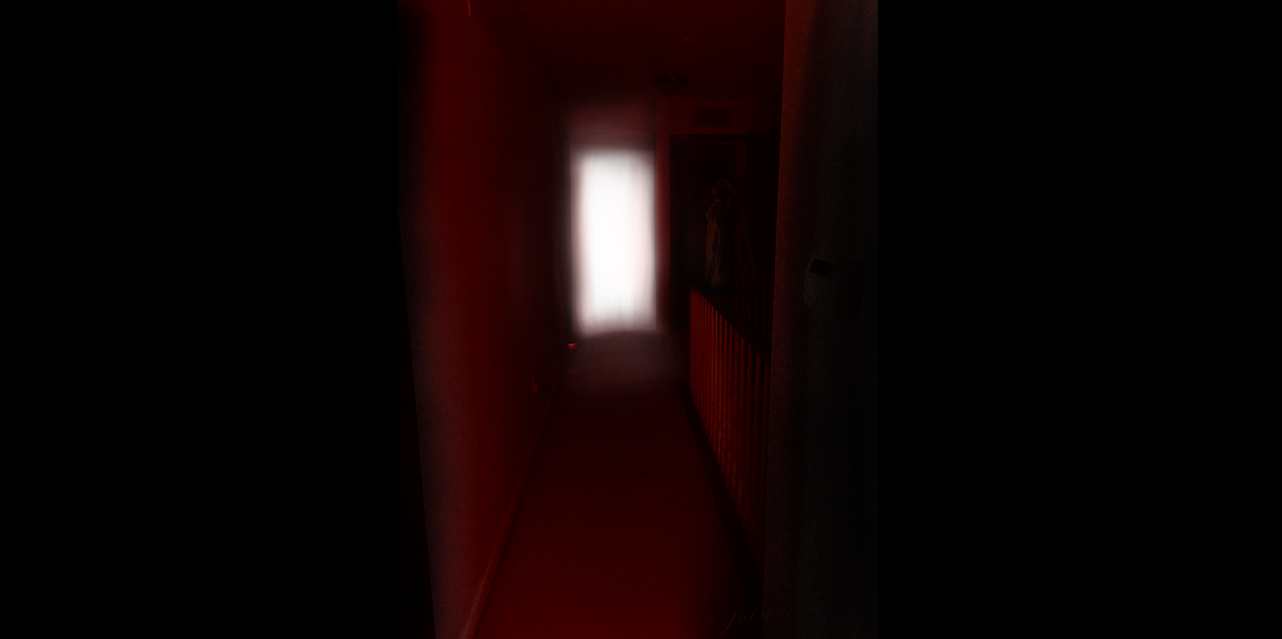
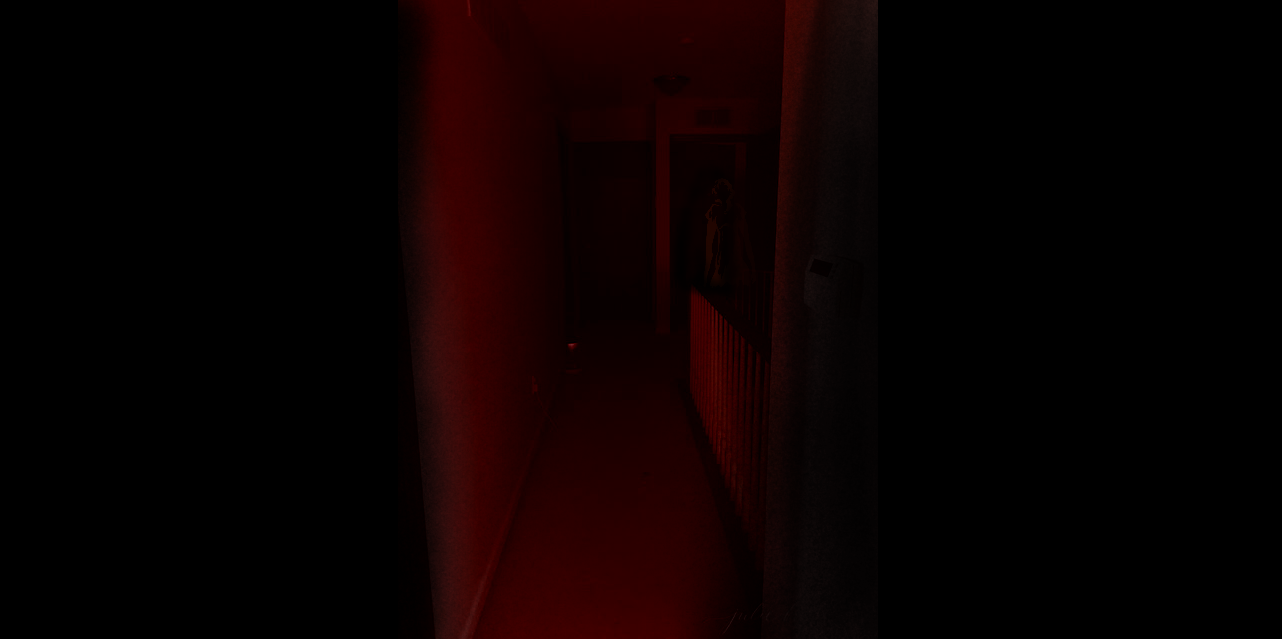
One more time

Changed region(s): [[0.4368, 0.1487, 0.5304, 0.5947]]

diff --git a/car.css b/car.css
@@ -562,6 +562,8 @@ body.single-toggle .drop:nth-child(10) {
     background: url("images/graveyard.png");
     background-repeat: no-repeat;
     background-size: cover;
+    box-shadow: inset 0 0 0 2000px rgba(0, 0, 0, 0.7);
+    background-size: cover;
     background-position: center;
     background-attachment: fixed;
 }
@@ -573,6 +575,7 @@ body.single-toggle .drop:nth-child(10) {
     color: var(--white);
     letter-spacing: 0.7em;
     display: flex;
+    text-shadow: #000 1px 1px 5px;
     line-height: 40px;
     margin-left: 20%;
     justify-content: center;

diff --git a/interface/hall.html b/interface/hall.html
@@ -13,7 +13,7 @@
                     Behind those paintings, always were...”
                 </h3>
                 <br>
-                <h4> The Corpses of Glyn Mansion </h4>
+                <h4> The Corpses of Glynn Mansion </h4>
             </div>
         </div>
     </body>
